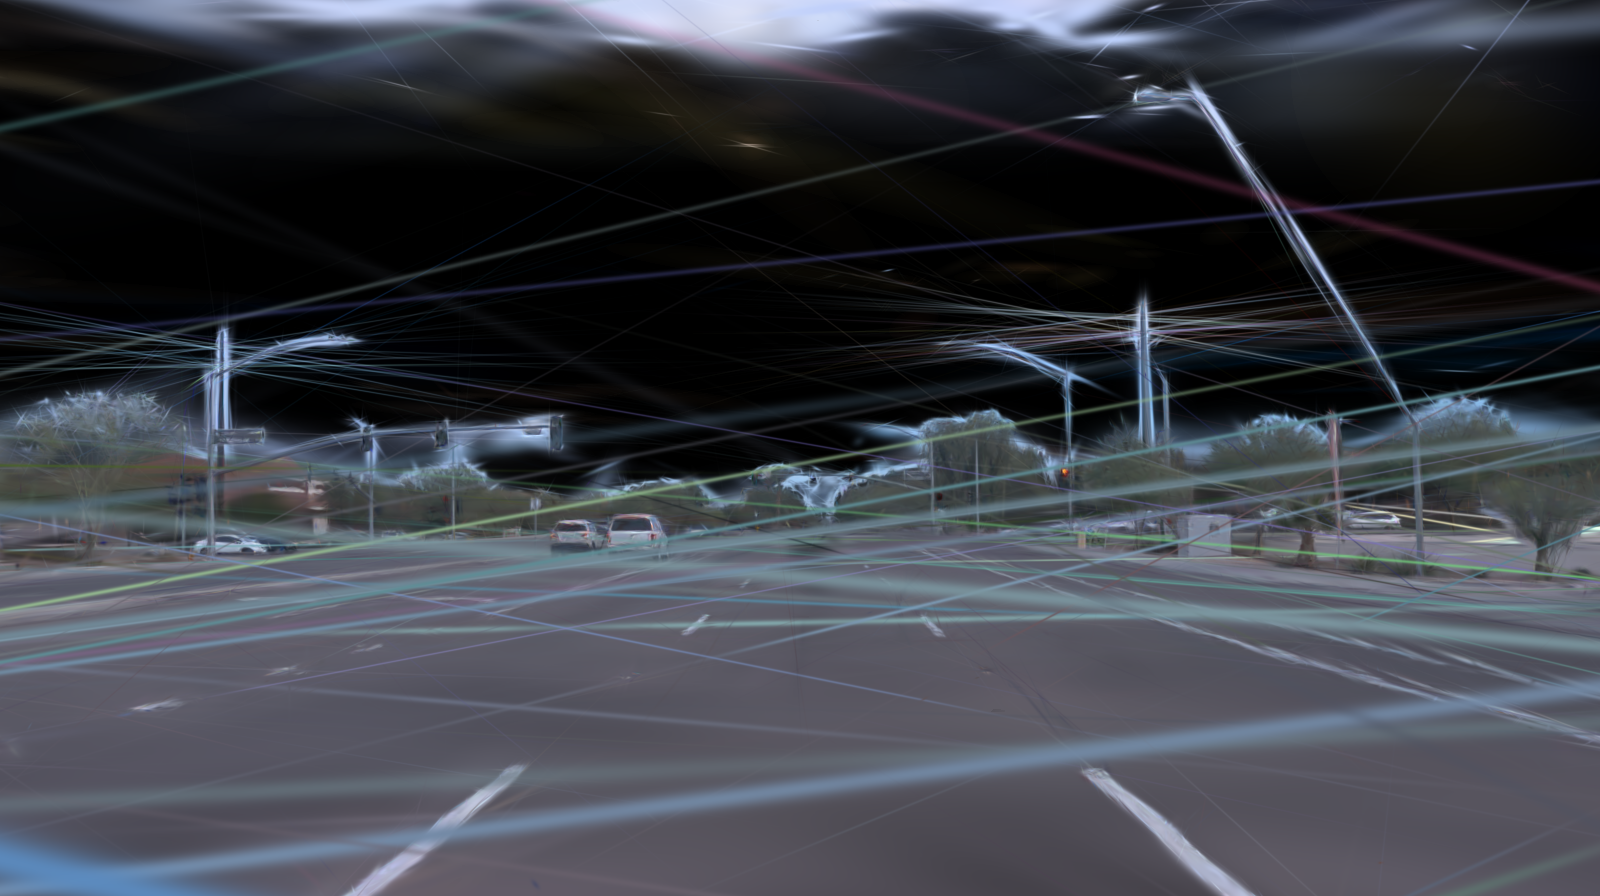
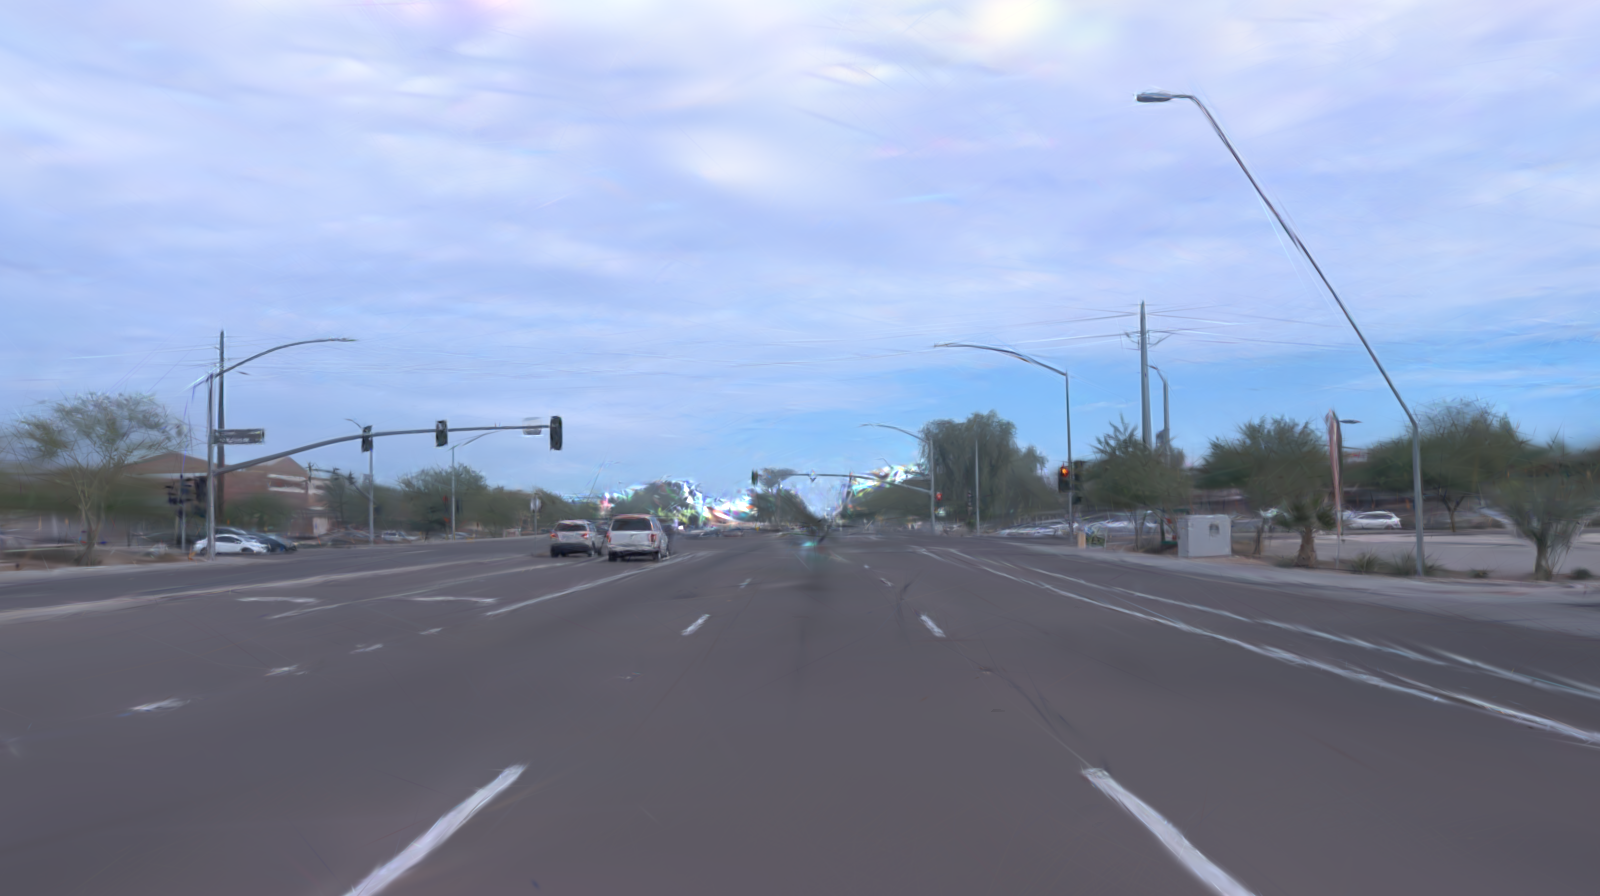
0926

diff --git a/test1.py b/test1.py
@@ -25,11 +25,11 @@ MAP_CENTER = torch.tensor(MAP_CENTER, device=device)
 # 合并背景和天空的高斯点参数(静态)
 # 计算每一帧的actor高斯点(动态)
 # 合并静态点云和动态点云
-means = torch.cat([background.get_xyz()])  # [N, 3]
-quats = torch.cat([background.get_quats()])  # [N, 4]
-scales = torch.cat([background.get_scales()])  # [N, 3]
-opacities = torch.cat([background.get_opacities()])  # [N, 1]
-colors = torch.cat([background.get_colors()])  # [N, 4, 3]
+means = torch.cat([background.get_xyz(), sky.get_xyz()])  # [N, 3]
+quats = torch.cat([background.get_quats(), sky.get_quats()])  # [N, 4]
+scales = torch.cat([background.get_scales(), sky.get_scales()])  # [N, 3]
+opacities = torch.cat([background.get_opacities(), sky.get_opacities()])  # [N, 1]
+colors = torch.cat([background.get_colors(), sky.get_colors()])  # [N, 4, 3]
 
 # from ply import load_gaussian_parameters_from_ply, save_gaussian_parameters_to_ply
 

diff --git a/render_kernel.py b/render_kernel.py
@@ -10,7 +10,7 @@ from gsplat import (
     spherical_harmonics,
 )
 
-NATIVE = False
+NATIVE = True
 
 
 def extract_camera_centers(viewmats: torch.Tensor):
